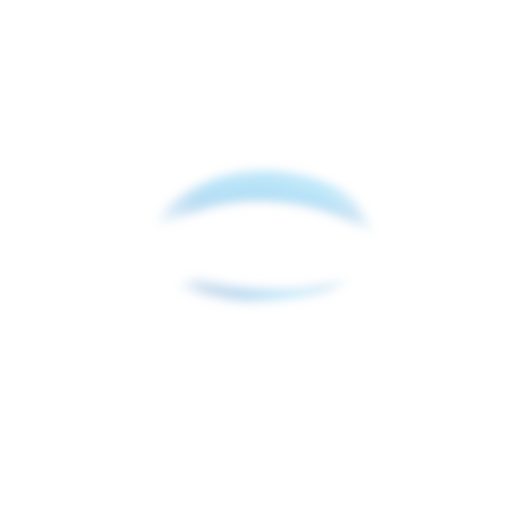
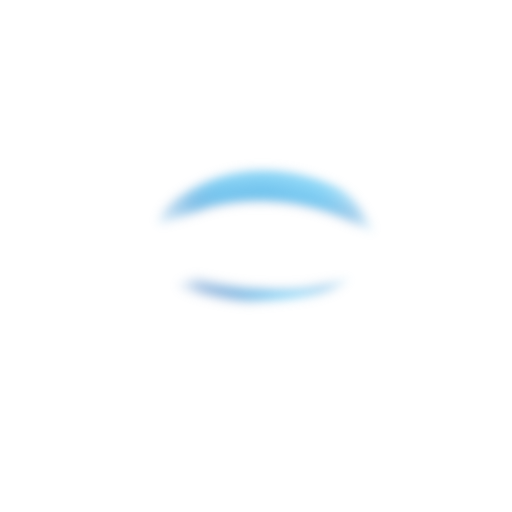
changed some elements regard with design

Changed region(s): [[0.3125, 0.3125, 0.7188, 0.4375], [0.375, 0.5312, 0.625, 0.5938]]

diff --git a/src/ru/flightlabs/makeup/adapter/ColorsPagerAdapter.java b/src/ru/flightlabs/makeup/adapter/ColorsPagerAdapter.java
@@ -67,4 +67,9 @@ public class ColorsPagerAdapter extends PagerAdapter {
     public float getPageWidth(int position) {
         return 1f / 4;
     }
+
+    public interface Colors {
+        int getCount();
+        int[] getColor(int position);
+    }
 }
